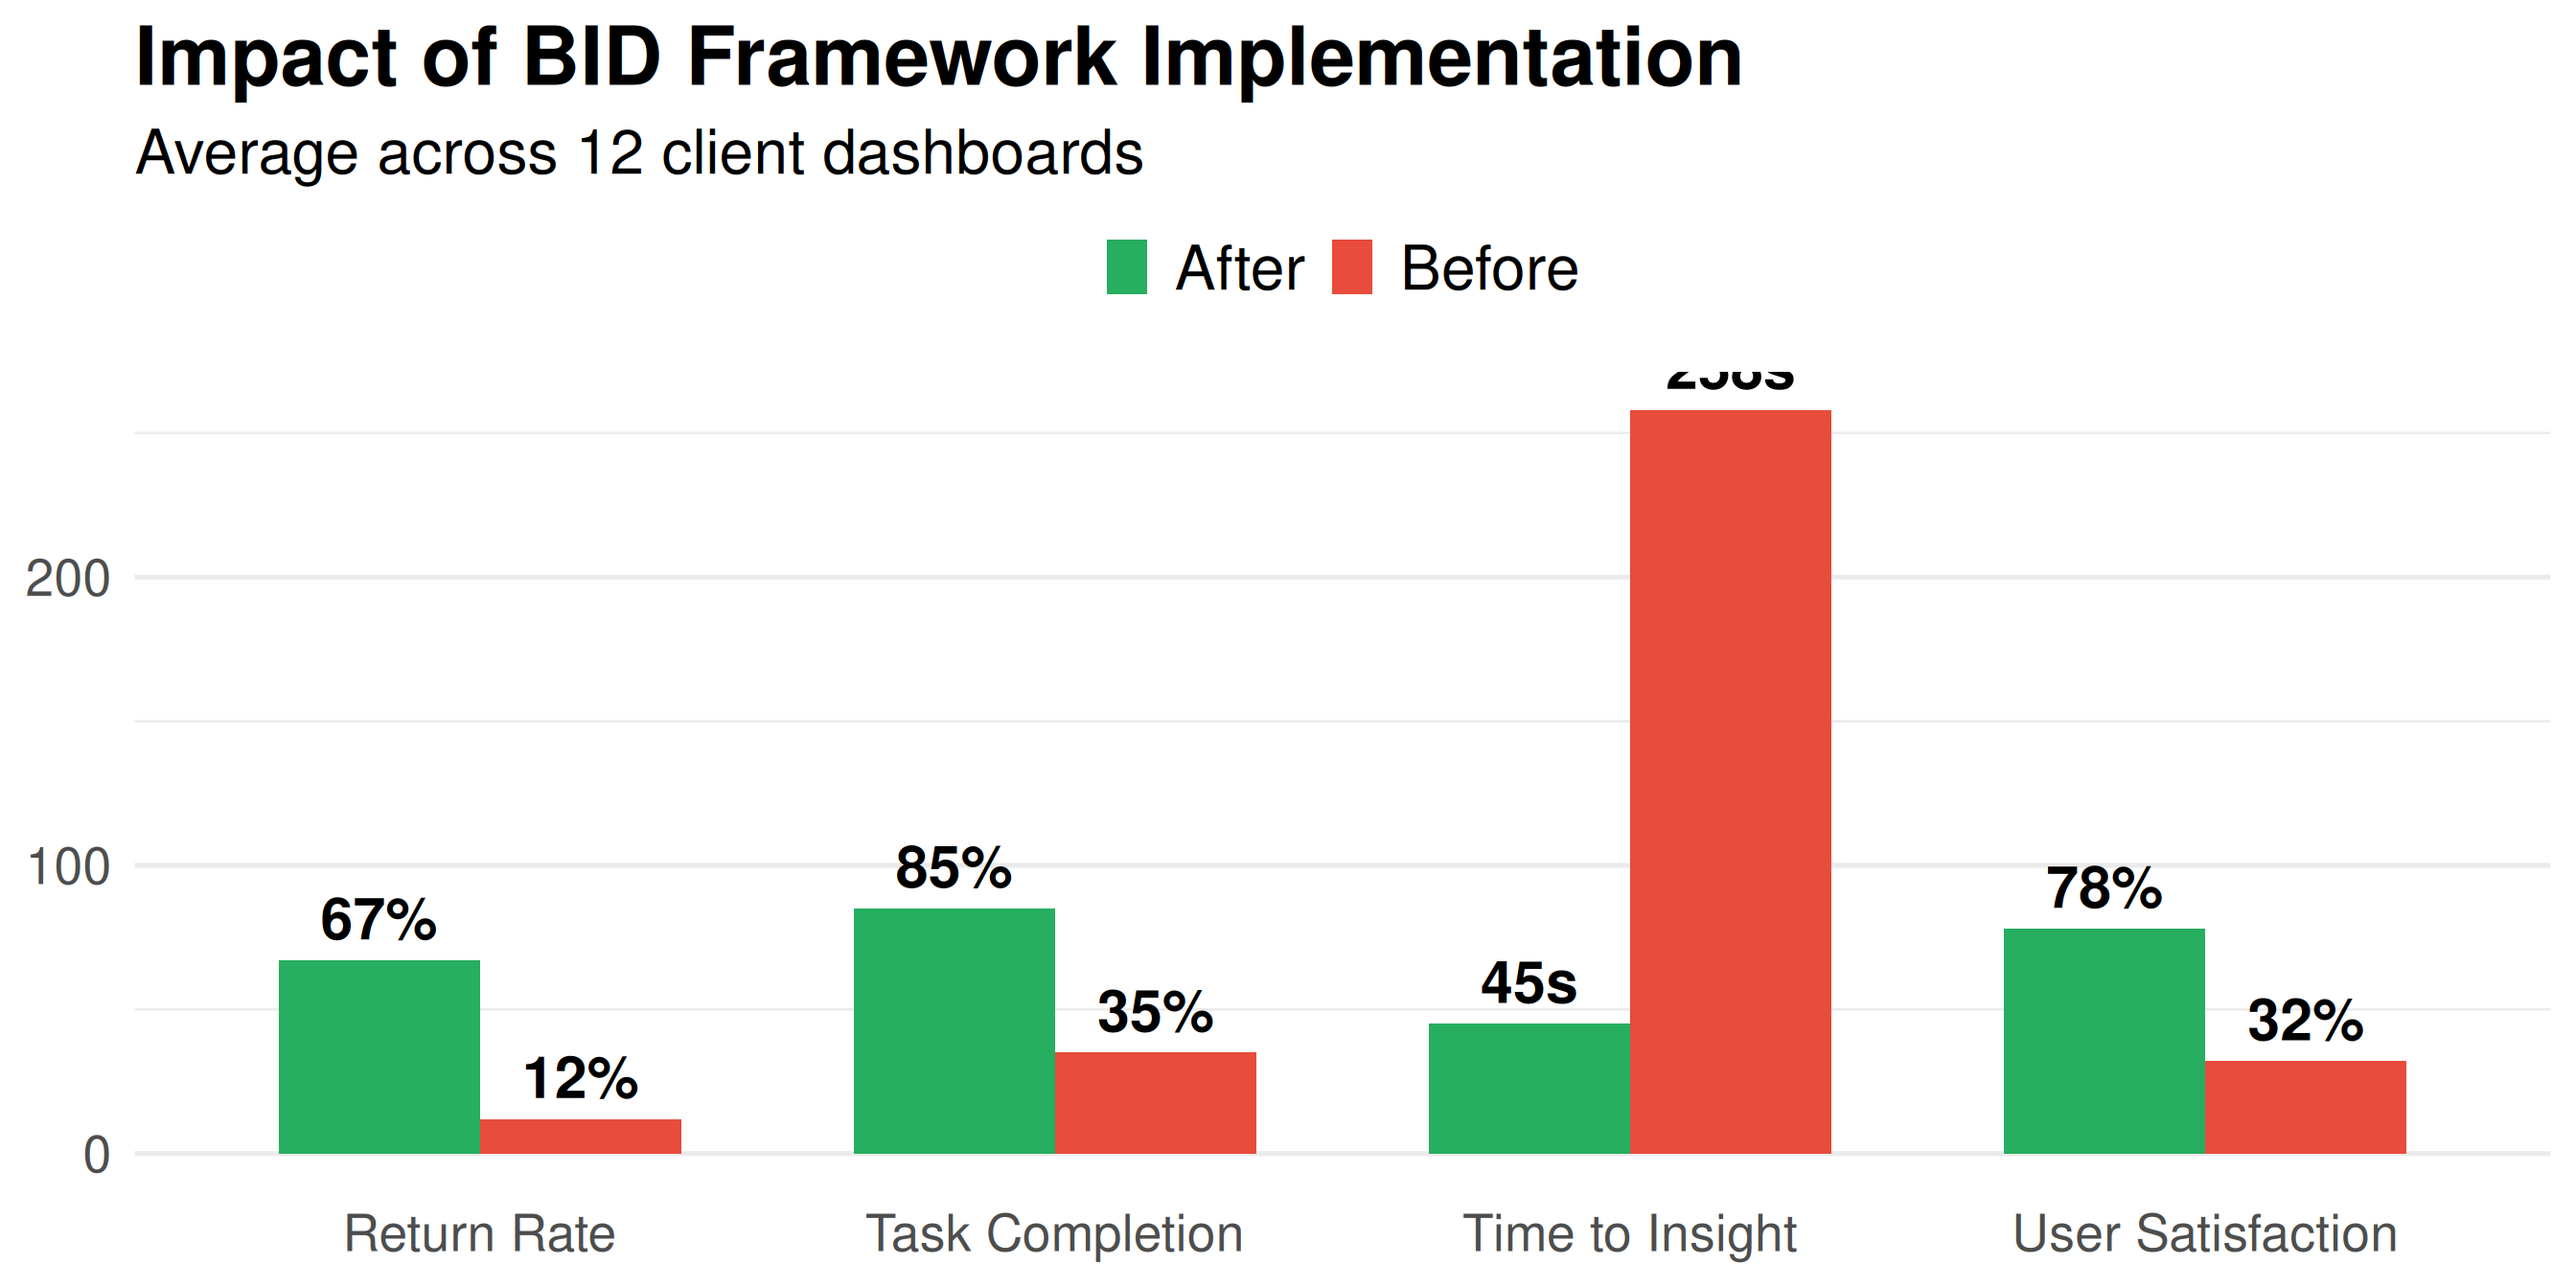
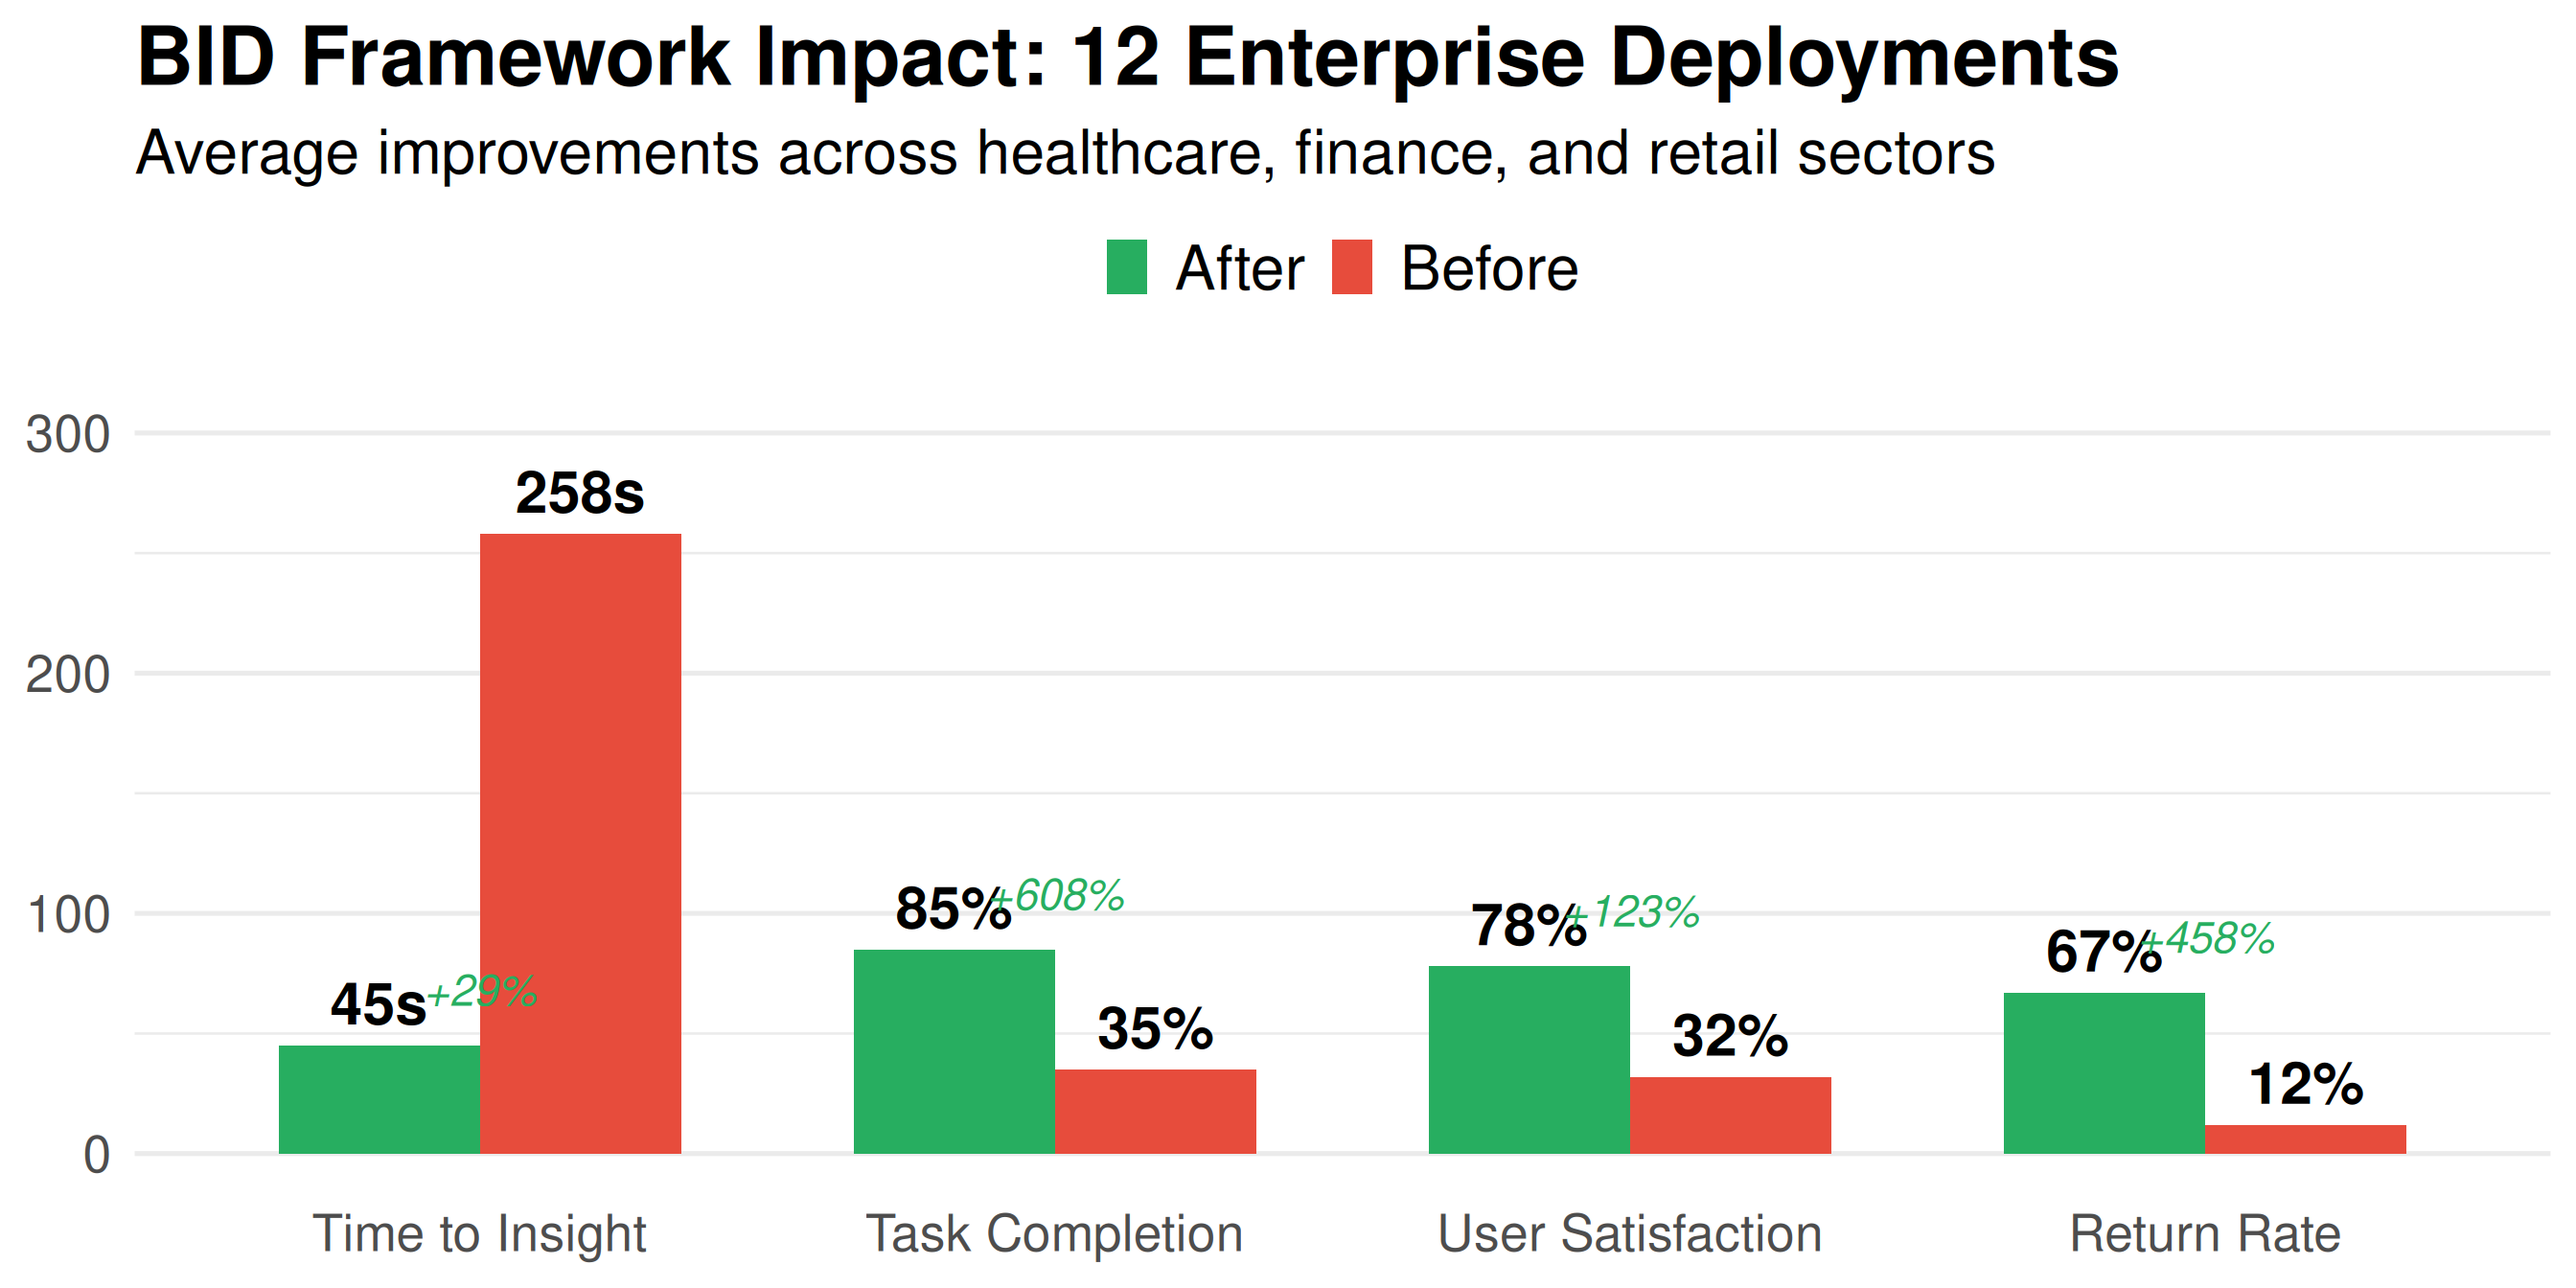
Update layout and styling for presentation slides
- Convert insight box to blockquote for core realization slide
- Reorganize columns in NOTICE section (move chart before code)
- Replace side-by-side layout with r-stack for ANTICIPATE section
- Combine before/after tables into single comparison table for transformation slide
- Adjust column widths and styling for final slides
- Update figure references and timestamps

diff --git a/conference-materials/2025_posit-conf/draft.html b/conference-materials/2025_posit-conf/draft.html
@@ -302,9 +302,12 @@ Jeremy Winget, PhD
 </section>
 <section id="core-realization" class="slide level2" data-background-color="#5b6bbf">
 <h2>Core Realization</h2>
-<div class="insight-box" style="margin-top: 300px !important;">
+<!-- ::: {.insight-box style="margin-top: 300px !important;"}
+"Most dashboard failures aren't technical. They're psychological."
+::: -->
+<blockquote>
 <p>“Most dashboard failures aren’t technical. They’re psychological.”</p>
-</div>
+</blockquote>
 <aside class="notes">
 <ul>
 <li>15 seconds</li>
@@ -648,7 +651,17 @@ Jeremy Winget, PhD
 <section id="notice-find-the-core-problems" class="slide level2" data-background-color="#5b6bbf">
 <h2>NOTICE: Find the Core Problems</h2>
 <div class="columns">
-<div class="column" style="width:55%;">
+<div class="column" style="width:45%;">
+<div class="cell">
+<div class="cell-output-display">
+<div>
+<figure>
+<p><img data-src="draft_files/figure-revealjs/unnamed-chunk-3-1.png" width="576"></p>
+</figure>
+</div>
+</div>
+</div>
+</div><div class="column" style="width:55%;">
 <div class="cell">
 <div class="sourceCode cell-code" id="cb3" data-code-line-numbers="|2-6|8"><pre class="sourceCode numberSource r number-lines code-with-copy"><code class="sourceCode r"><span id="cb3-1"><a href=""></a><span class="co"># Minimal input → Maximum insight</span></span>
 <span id="cb3-2"><a href=""></a>notice_stage <span class="ot">&lt;-</span> <span class="fu">bid_notice</span>(</span>
@@ -686,17 +699,7 @@ Stage Data:
    evidence : Users report confusion and telemetry shows low engagement 
    suggestions : Ensure your problem description is specific and supported by strong evidence 
 
-Generated: 2025-09-11 16:41:26 </code></pre>
-</div>
-</div>
-</div><div class="column" style="width:45%;">
-<div class="cell">
-<div class="cell-output-display">
-<div>
-<figure>
-<p><img data-src="draft_files/figure-revealjs/unnamed-chunk-4-1.png" width="576"></p>
-</figure>
-</div>
+Generated: 2025-09-12 10:59:23 </code></pre>
 </div>
 </div>
 </div></div>
@@ -732,9 +735,7 @@ Generated: 2025-09-11 16:41:26 </code></pre>
 </section>
 <section id="anticipate-guard-against-biases" class="slide level2" data-background-color="#5b6bbf">
 <h2>ANTICIPATE: Guard Against Biases</h2>
-<div class="columns">
-<div class="column" style="width:40%;">
-<h3 id="same-data-different-story">Same Data, Different Story</h3>
+<div class="r-stack">
 <div class="cell">
 <div class="sourceCode cell-code" id="cb7"><pre class="sourceCode numberSource r number-lines code-with-copy"><code class="sourceCode r"><span id="cb7-1"><a href=""></a>anticipate_stage <span class="ot">&lt;-</span> <span class="fu">bid_anticipate</span>(<span class="at">previous_stage =</span> notice_stage)</span></code><button title="Copy to Clipboard" class="code-copy-button"><i class="bi"></i></button></pre></div>
 <div class="cell-output cell-output-stdout">
@@ -767,23 +768,15 @@ Stage Data:
    previous_theory : Cognitive Load Theory 
    suggestions : anchoring mitigation: Always show reference points like previous period, budg... 
 
-Generated: 2025-09-11 16:41:27 </code></pre>
+Generated: 2025-09-12 10:59:24 </code></pre>
 </div>
 </div>
-</div><div class="column" style="width:60%;">
-<div class="quarto-figure quarto-figure-center" style="margin-bottom: 20px;">
-<figure>
-<p><img data-src="img/ui-gain-frame.png"></p>
-<figcaption>Marketing: 🎉</figcaption>
-</figure>
+<p><img data-src="img/ui-gain-frame.png" class="fragment"></p>
+<p><img data-src="img/ui-loss-frame.png" class="fragment"></p>
+<div class="text-box-overlay-dark fragment">
+<p><strong>Same Data, Different Story</strong></p>
 </div>
-<div class="quarto-figure quarto-figure-center">
-<figure>
-<p><img data-src="img/ui-loss-frame.png"></p>
-<figcaption>Finance: 😱</figcaption>
-</figure>
 </div>
-</div></div>
 <aside class="notes">
 <ul>
 <li>1 minute</li>
@@ -836,7 +829,7 @@ Stage Data:
    previous_bias : anchoring: Consider how anchoring might affect user interpretation; framing: ... 
    suggestions : list(concept = "Cognitive Load Theory", suggestions = list(list(title = "Limi... 
 
-Generated: 2025-09-11 16:41:27 </code></pre>
+Generated: 2025-09-12 10:59:24 </code></pre>
 </div>
 </div>
 <div class="fragment">
@@ -899,7 +892,7 @@ Stage Data:
    previous_concepts : Cognitive Load Theory, Visual Hierarchy, Progressive Disclosure 
    suggestions : Consider adding user empowerment tools to enhance collaboration 
 
-Generated: 2025-09-11 16:41:27 </code></pre>
+Generated: 2025-09-12 10:59:24 </code></pre>
 </div>
 </div>
 <div class="fragment">
@@ -1258,76 +1251,45 @@ Stage 2 (Notice) completed. (40% complete)
 </section>
 <section id="the-transformation" class="slide level2 center" data-background-color="#2c3e50">
 <h2>The Transformation</h2>
-<div class="columns">
-<div class="column" style="width:50%;">
-<h3 id="before">Before</h3>
+<div class="r-stack">
 <p><img data-src="img/ui-before.png"></p>
-<div class="cell">
-<div class="cell-output-display">
+<p><img data-src="img/ui-after.png" class="fragment"></p>
+<div class="text-box-overlay-dark fragment">
 <table class="caption-top">
 <thead>
 <tr class="header">
-<th style="text-align: left;">Metric</th>
-<th style="text-align: right;">Value</th>
+<th>Metric</th>
+<th style="text-align: center;">Before</th>
+<th style="text-align: center;">After</th>
 </tr>
 </thead>
 <tbody>
 <tr class="odd">
-<td style="text-align: left;">Filters</td>
-<td style="text-align: right;">18</td>
+<td>Filters</td>
+<td style="text-align: center;">18</td>
+<td style="text-align: center;">3 (+15 advanced)</td>
 </tr>
 <tr class="even">
-<td style="text-align: left;">Success Rate</td>
-<td style="text-align: right;">8%</td>
+<td>Success Rate</td>
+<td style="text-align: center;">8%</td>
+<td style="text-align: center;">85%</td>
 </tr>
 <tr class="odd">
-<td style="text-align: left;">Time to Insight</td>
-<td style="text-align: right;">258s</td>
+<td>Time to Insight</td>
+<td style="text-align: center;">258s</td>
+<td style="text-align: center;">45s</td>
 </tr>
 <tr class="even">
-<td style="text-align: left;">Return Rate</td>
-<td style="text-align: right;">12%</td>
+<td>Return Rate</td>
+<td style="text-align: center;">12%</td>
+<td style="text-align: center;">67%</td>
 </tr>
 </tbody>
 </table>
-</div>
-</div>
-</div><div class="column" style="width:50%;">
-<h3 id="after">After</h3>
-<p><img data-src="img/ui-after.png"></p>
-<div class="cell">
-<div class="cell-output-display">
-<table class="caption-top">
-<thead>
-<tr class="header">
-<th style="text-align: left;">Metric</th>
-<th style="text-align: right;">Value</th>
-</tr>
-</thead>
-<tbody>
-<tr class="odd">
-<td style="text-align: left;">Filters</td>
-<td style="text-align: right;">3 (+15 advanced)</td>
-</tr>
-<tr class="even">
-<td style="text-align: left;">Success Rate</td>
-<td style="text-align: right;">85%</td>
-</tr>
-<tr class="odd">
-<td style="text-align: left;">Time to Insight</td>
-<td style="text-align: right;">45s</td>
-</tr>
-<tr class="even">
-<td style="text-align: left;">Return Rate</td>
-<td style="text-align: right;">67%</td>
-</tr>
-</tbody>
-</table>
-</div>
-</div>
-</div></div>
-<div class="fragment text-xl" style="text-align: center; margin-top: 30px;">
+<div class="fragment text-xl" style="margin-top: 30px;">
 <p><strong>Same data. Same goals. 10x better outcomes.</strong></p>
+</div>
+</div>
 </div>
 <aside class="notes">
 <ul>
@@ -1351,7 +1313,7 @@ Stage 2 (Notice) completed. (40% complete)
 <section id="real-impact-across-industries" class="slide level2" data-background-color="#5b6bbf">
 <h2>Real Impact Across Industries</h2>
 
-<img data-src="draft_files/figure-revealjs/unnamed-chunk-12-1.png" width="1344" class="r-stretch"><aside class="notes">
+<img data-src="draft_files/figure-revealjs/unnamed-chunk-10-1.png" width="1344" class="r-stretch"><aside class="notes">
 <ul>
 <li>30 seconds</li>
 <li>“Real results from 12 enterprise deployments”</li>
@@ -1378,6 +1340,8 @@ Stage 2 (Notice) completed. (40% complete)
 </section>
 <section id="your-turn-start-today" class="slide level2 center" data-background-color="#5b6bbf">
 <h2>Your Turn: Start Today</h2>
+<div class="columns">
+<div class="column" style="width:65%;">
 <div class="cell">
 <div class="sourceCode cell-code" id="cb46"><pre class="sourceCode numberSource r number-lines code-with-copy"><code class="sourceCode r"><span id="cb46-1"><a href=""></a><span class="co"># Install from CRAN</span></span>
 <span id="cb46-2"><a href=""></a><span class="fu">install.packages</span>(<span class="st">"bidux"</span>)</span>
@@ -1402,7 +1366,7 @@ Stage 2 (Notice) completed. (40% complete)
 <span id="cb46-21"><a href=""></a><span class="co"># Get your next steps</span></span>
 <span id="cb46-22"><a href=""></a>result<span class="sc">$</span>next_steps</span></code><button title="Copy to Clipboard" class="code-copy-button"><i class="bi"></i></button></pre></div>
 </div>
-<div class="fragment">
+</div><div class="column fragment" style="width:35%;">
 <h3 id="resources">Resources:</h3>
 <ul>
 <li>🔬 <strong>BID Framework</strong>: <a href="https://github.com/jrwinget/bid-framework">github.com/jrwinget/bid-framework</a></li>
@@ -1421,7 +1385,7 @@ Stage 2 (Notice) completed. (40% complete)
 <li>📧 <a href="mailto:contact@jrwinget.com">contact@jrwinget.com</a></li>
 </ul></li>
 </ul>
-</div>
+</div></div>
 <aside class="notes">
 <ul>
 <li>30 seconds</li>
@@ -1446,15 +1410,15 @@ Stage 2 (Notice) completed. (40% complete)
 <section id="one-thing-to-remember" class="slide level2" data-background-color="#2c3e50">
 <h2>One Thing to Remember</h2>
 <div class="columns center">
-<div class="column" style="width:30%;">
-<p><img data-src="img/hex-bidux.png"></p>
-</div><div class="column text-display" style="width:40%;">
+<div class="column" style="width:20%;">
+<p><img data-src="img/hex-bidux.png" style="box-shadow: none !important; border: none !important; margin-top: 50px;"></p>
+</div><div class="column text-display" style="margin-top: 200px;">
 <p><strong>Dashboards don’t need more features.</strong><br> <strong>They need fewer obstacles.</strong></p>
 <div class="fragment text-xl" style="margin-top: 50px">
 <p>Let’s fix that together!</p>
 </div>
-</div><div class="column fragment" style="width:30%;">
-<p><em>Special thanks to the posit::conf organizers,<br> the Shiny community,<br> and all of you for caring about your users</em></p>
+</div><div class="column fragment" style="width:20%;">
+<p><em>Special thanks to posit::conf organizers,<br> the Shiny community,<br> and all of you for caring about your users</em></p>
 </div></div>
 <aside class="notes">
 <ul>
